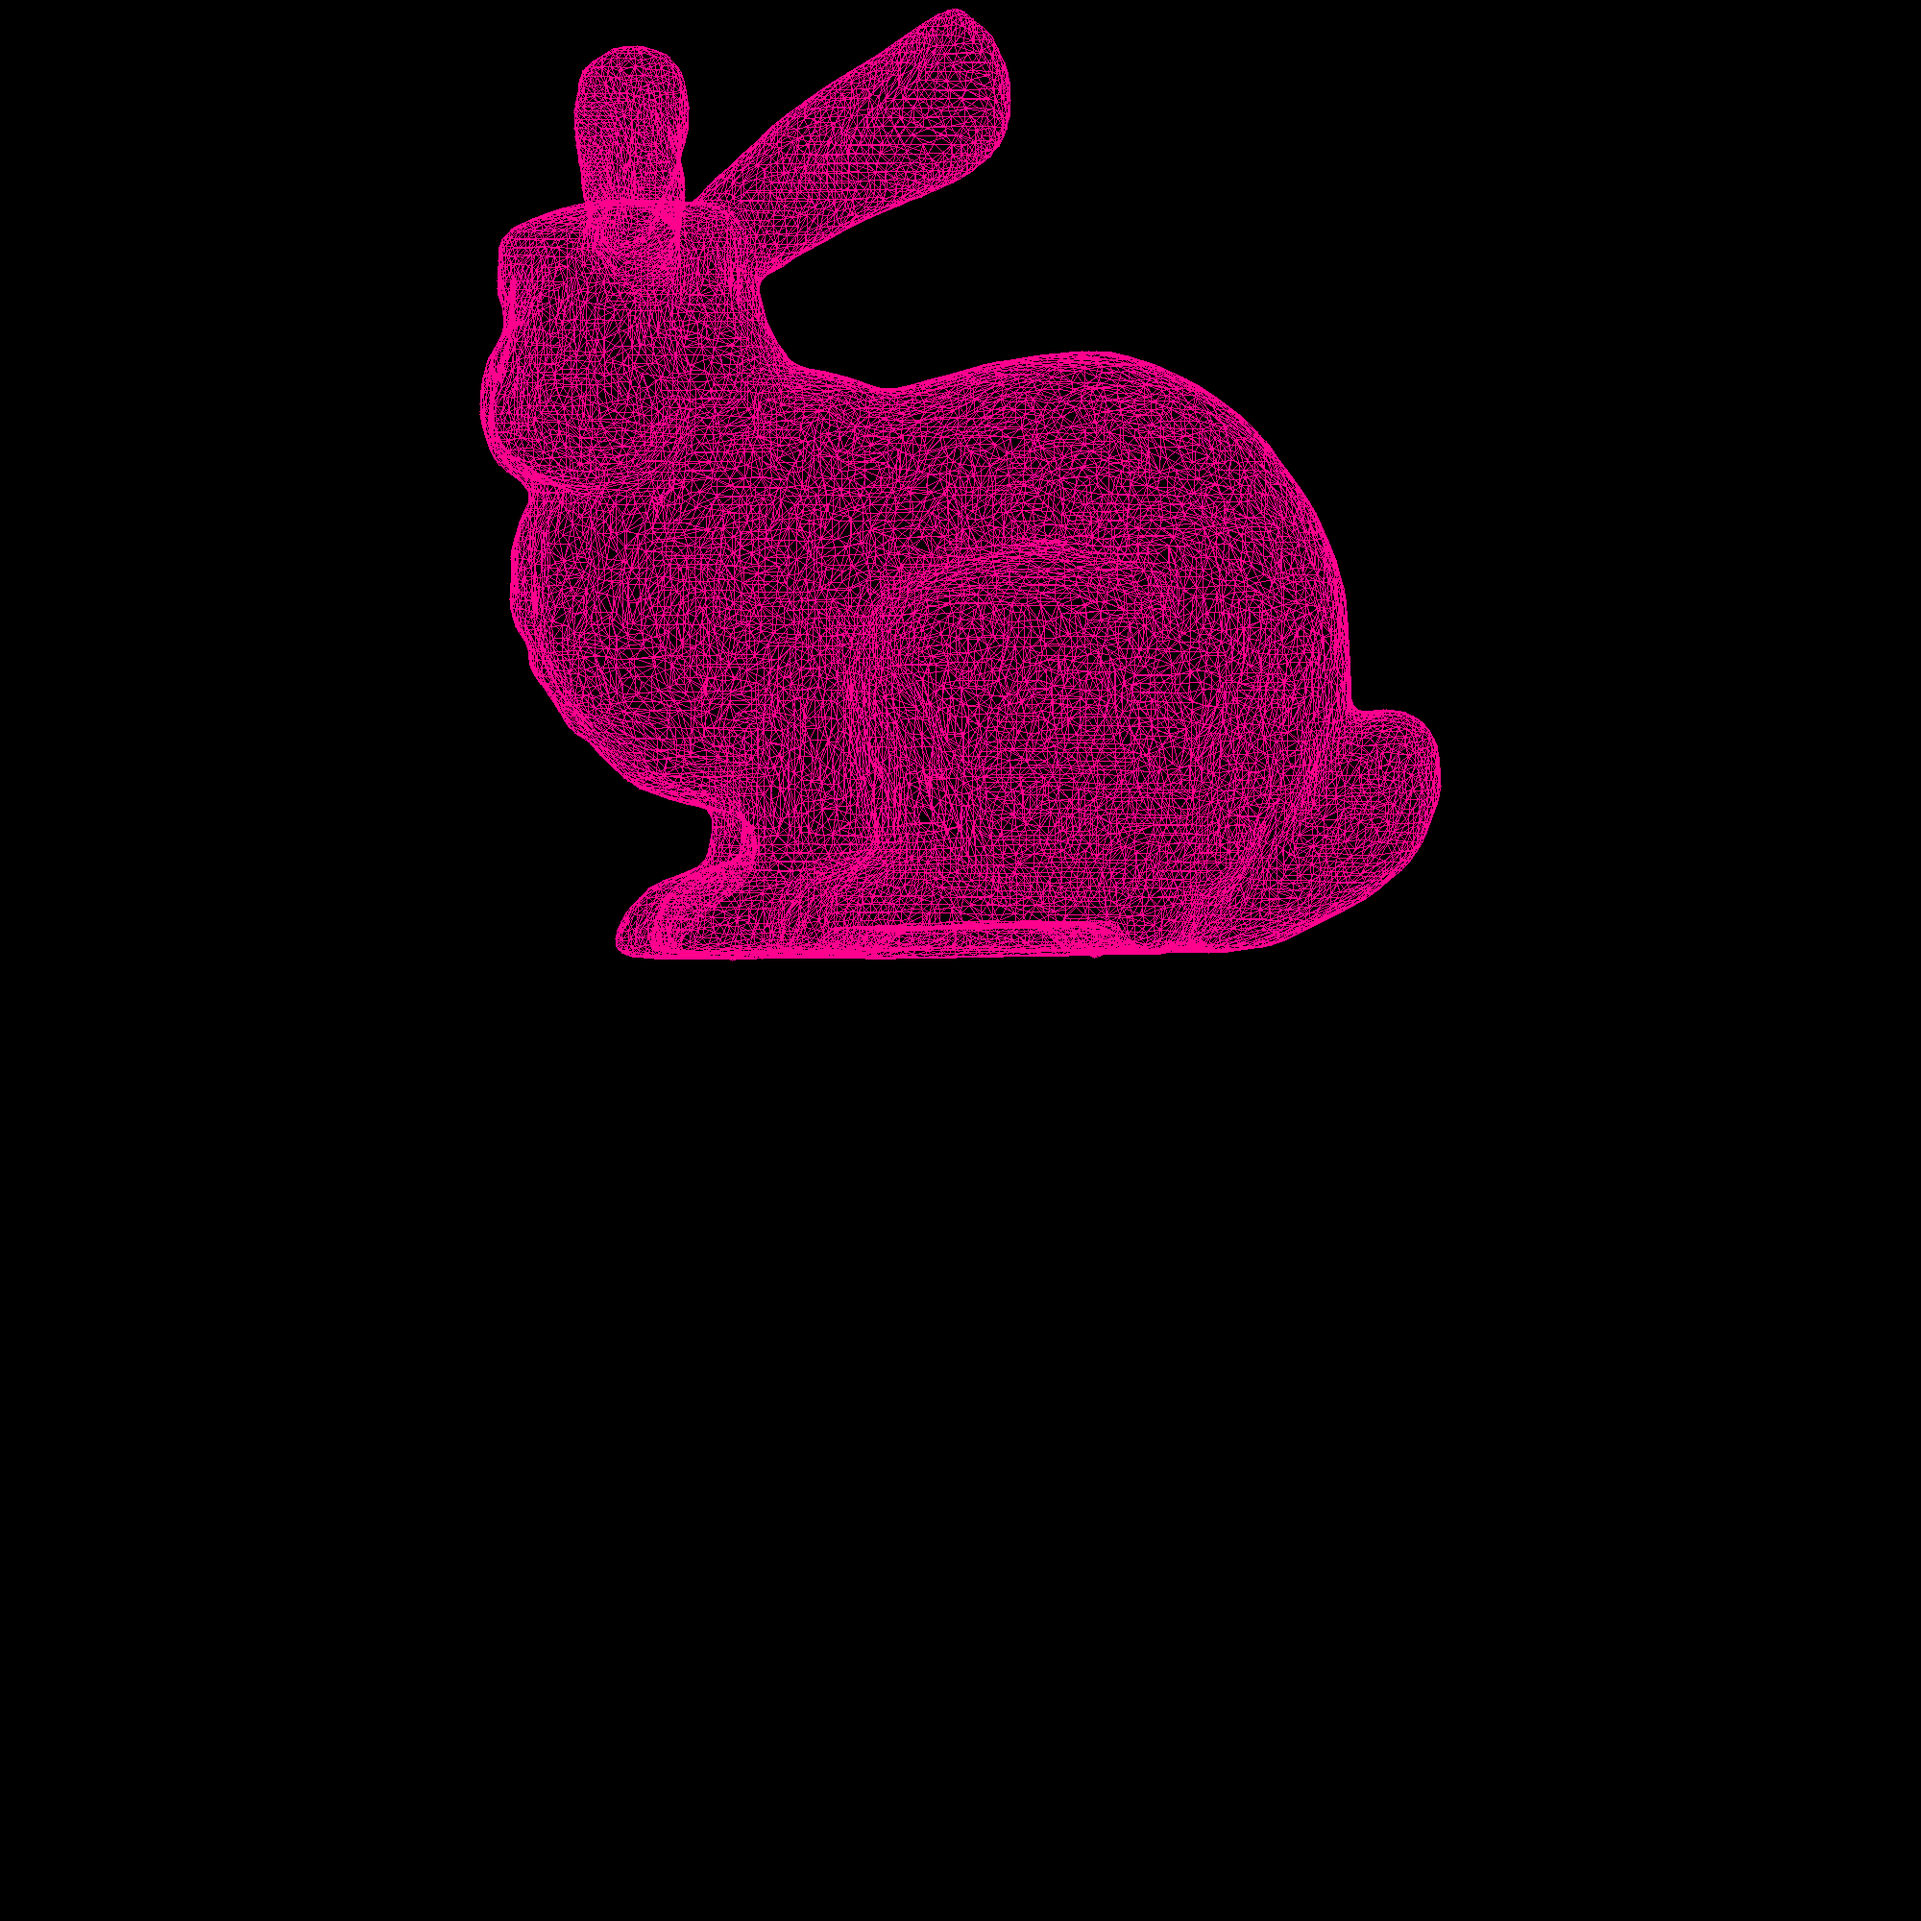
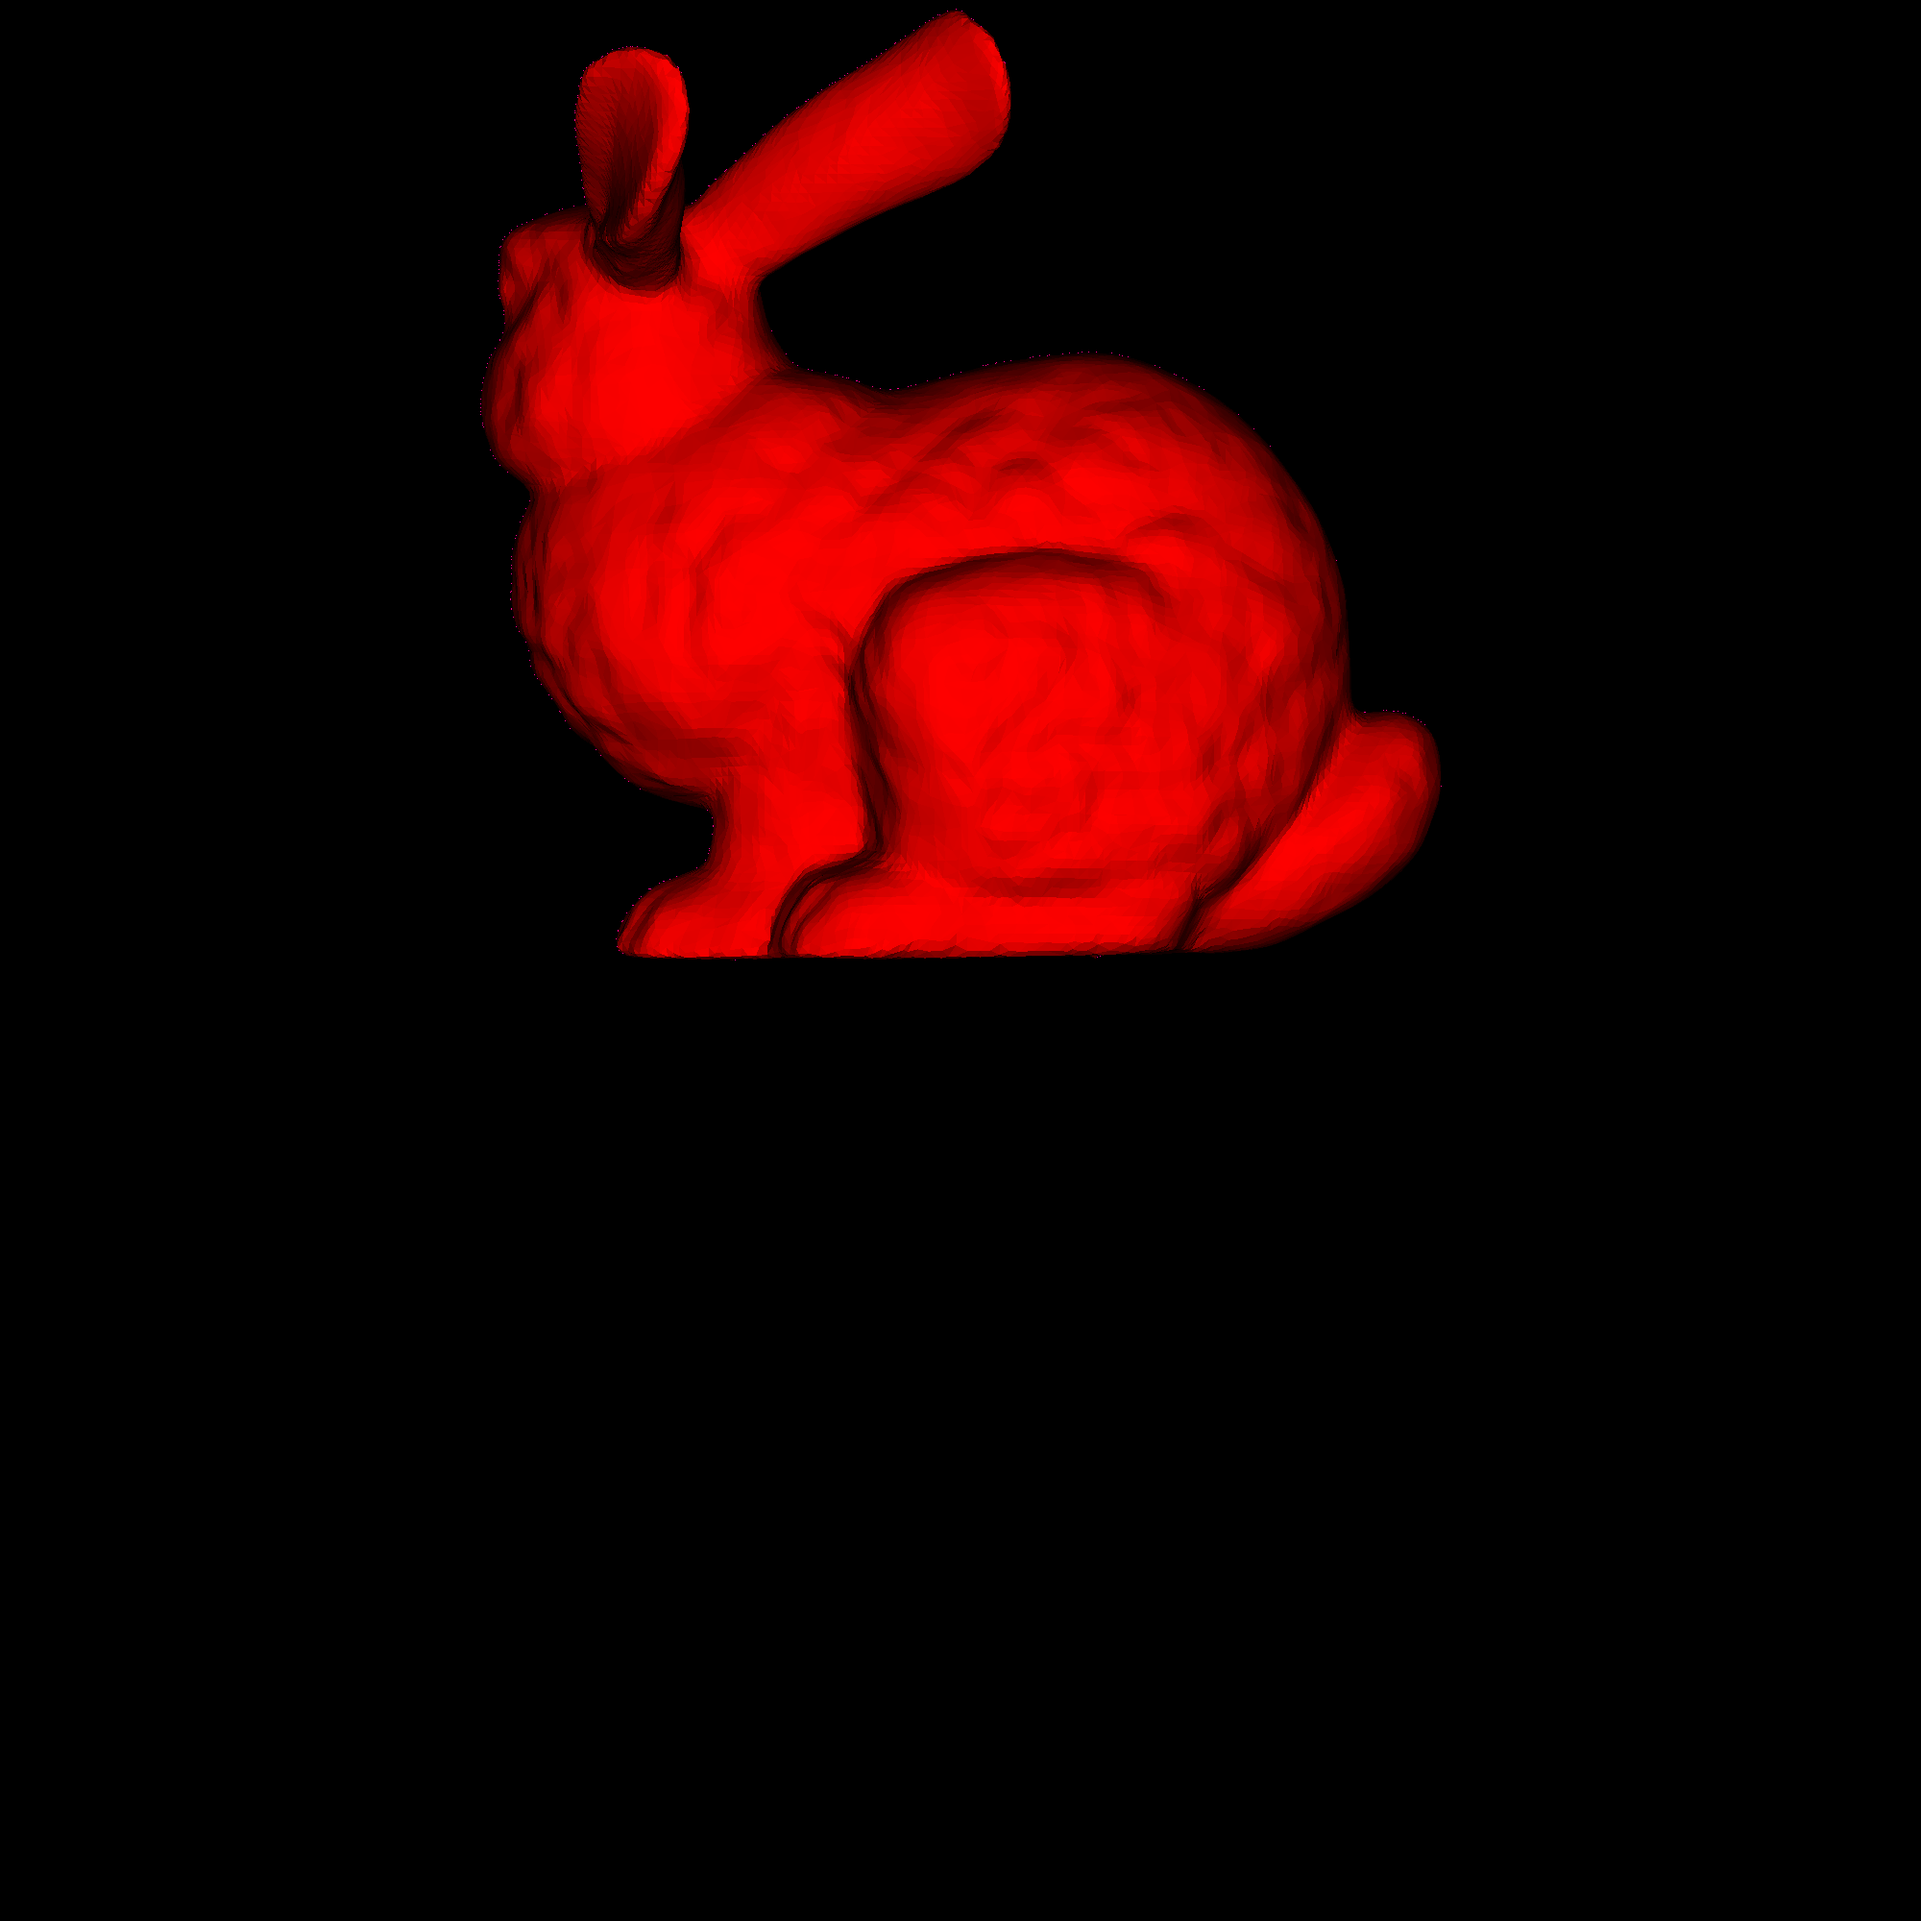
new lab-3

Changed region(s): [[0.248, 0.0, 0.775, 0.527]]

diff --git a/laba1.py b/laba1.py
@@ -1,7 +1,10 @@
 import numpy as np
 from PIL import Image
 from math import floor
+from math import ceil
+from random import randint
 img_mat=np.zeros((2000,2000,3),dtype=np.uint8)
+z_b=np.full((2000,2000),float('inf'))
 def line(img_mat,x0,y0,x1,y1):
     d_max=max(abs(floor(x0)-floor(x1)), abs(floor(y0)-floor(y1)))
     l=d_max+1
@@ -30,7 +33,7 @@ for s in file:
             f.append([int(sf1[0]),int(sf2[0]),int(sf3[0])])
 for i in range(len(v)):
     img_mat[floor(-10000*v[i][1])+1000, floor(10000*v[i][0])+1000]=255,2,141
-for i in range(len(f)):
+'''for i in range(len(f)):
      x0=floor(10000*v[f[i][0]-1][0])+1000
      y0=floor(-10000*v[f[i][0]-1][1])+1000
      x1=floor(10000*v[f[i][1]-1][0])+1000
@@ -39,8 +42,52 @@ for i in range(len(f)):
      y2=floor(-10000*v[f[i][2]-1][1])+1000
      line(img_mat,x0,y0,x1,y1)
      line(img_mat,x2,y2,x1,y1)
-     line(img_mat,x0,y0,x2,y2)
-     
+     line(img_mat,x0,y0,x2,y2)'''
+
+
+def baricentr(x,y,x0,y0,x1,y1,x2,y2):
+     lambda0 = ((x - x2) * (y1 - y2) - (x1 - x2) * (y - y2)) / ((x0 - x2) * (y1 - y2) - (x1 - x2) * (y0 - y2))
+     lambda1 = ((x0 - x2) * (y - y2) - (x - x2) * (y0 - y2)) / ((x0 - x2) * (y1 - y2) - (x1 - x2) * (y0 - y2))
+     lambda2 = 1.0 - lambda0 - lambda1
+     return lambda0, lambda1, lambda2
+
+
+def triangle(x0,y0,z0,x1,y1,z1,x2,y2,z2,a,b,c,z_b):
+     xmin=floor(min(x0,x1,x2)) if (min(x0,x1,x2) >=0) else 0
+     xmax=ceil(max(x0,x1,x2)) if (max(x0,x1,x2) >=0) else 0
+     ymin=floor(min(y0,y1,y2)) if (min(y0,y1,y2) <=2000) else 2000
+     ymax=ceil(max(y0,y1,y2)) if (max(y0,y1,y2) <=2000) else 2000
+     if((x0 - x2) * (y1 - y2) - (x1 - x2) * (y0 - y2) == 0): return
+     for x in range(xmin, xmax+1):
+          for y in range(ymin, ymax+1):
+                lambda0,lambda1,lambda2=baricentr(x,y,x0,y0,x1,y1,x2,y2)
+                if (lambda0>=0 and lambda1>=0 and lambda2>=0):
+                     z=lambda0*z0+lambda1*z1+lambda2*z2
+                     if (z<z_b[y,x]): 
+                          z_b[y,x]=z
+                          img_mat[y,x]=a,b,c
+  
+for i in range(len(f)):
+     x0=(10000*v[f[i][0]-1][0])+1000
+     y0=(-10000*v[f[i][0]-1][1])+1000
+     z0=(10000*v[f[i][0]-1][2])+1000
+
+     x1=(10000*v[f[i][1]-1][0])+1000
+     y1=(-10000*v[f[i][1]-1][1])+1000
+     z1=(10000*v[f[i][1]-1][2])+1000
+
+     x2=(10000*v[f[i][2]-1][0])+1000
+     y2=(-10000*v[f[i][2]-1][1])+1000
+     z2=(10000*v[f[i][2]-1][2])+1000
+     a=np.array([x1-x2,y1-y2,z1-z2])
+     b=np.array([x1-x0,y1-y0,z1-z0])
+     l=np.array([0,0,1])
+     normal = -np.cross(a,b)
+     cos=np.dot(normal,l)/(np.linalg.norm(normal)*np.linalg.norm(l))
+     if (cos<0):
+        triangle(x0,y0,z0,x1,y1,z1,x2,y2,z2,-255*cos,-2*cos, -1*cos,z_b)
+
+
 
 img=Image.fromarray(img_mat)
 img.save('img.png')
